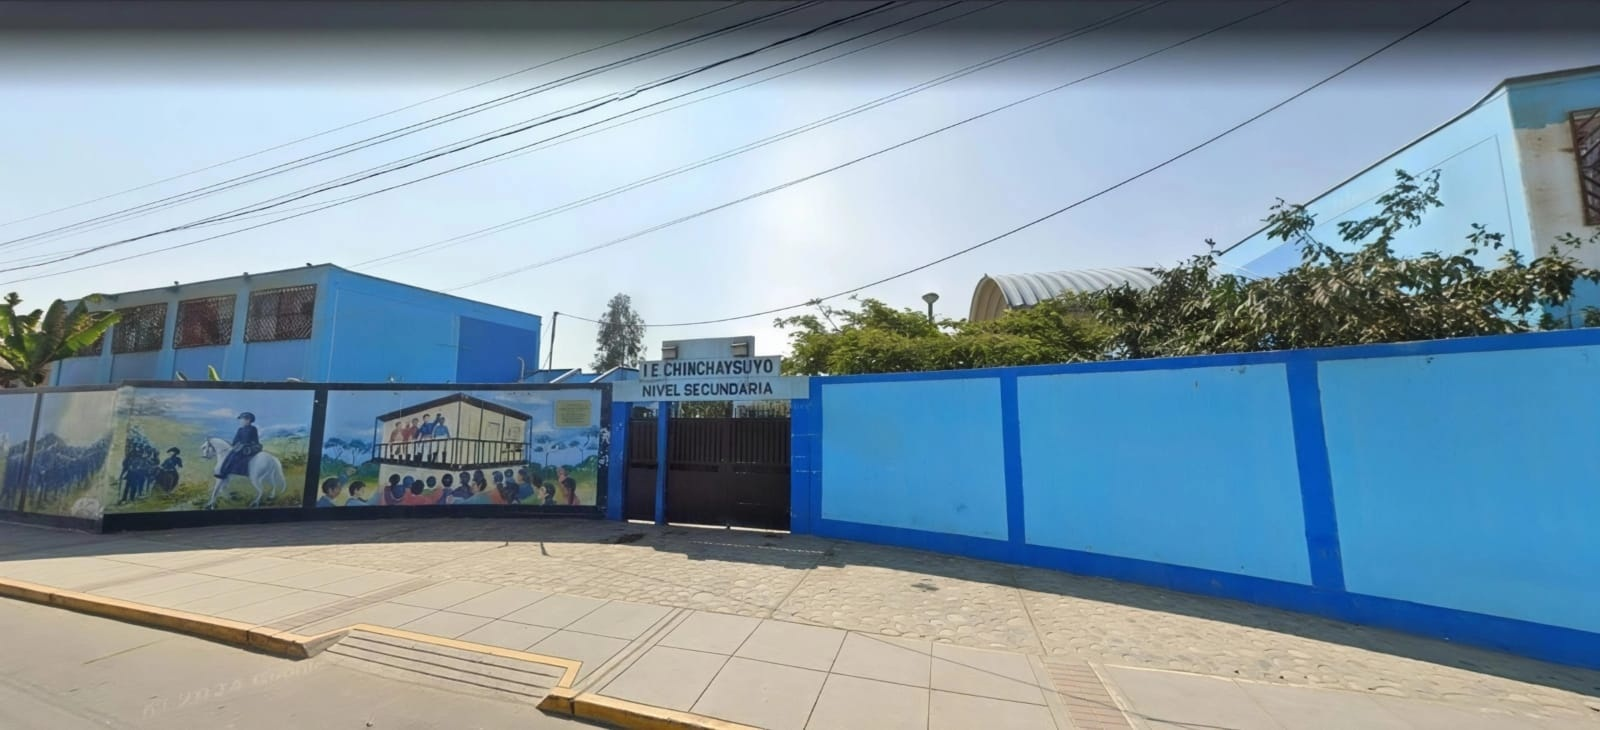
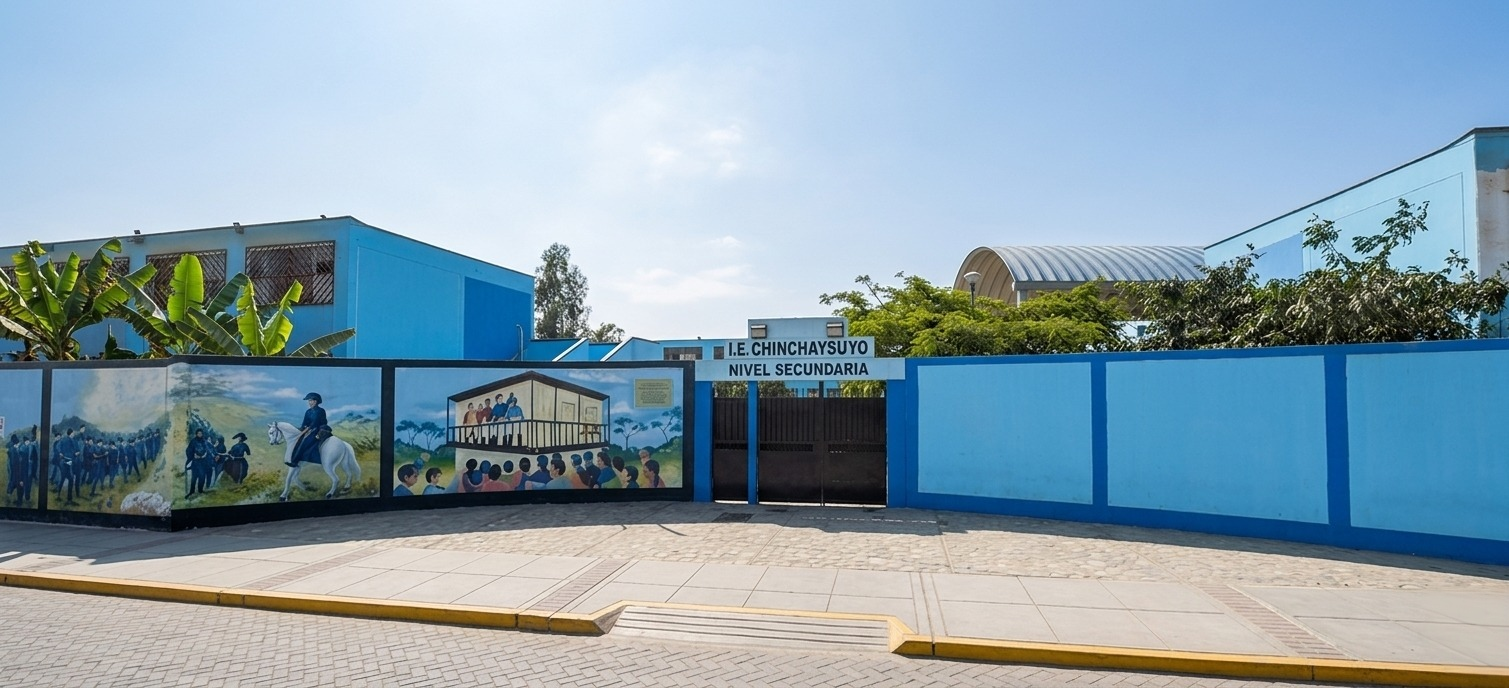
Correcion

diff --git a/app/Views/Auth/login.php b/app/Views/Auth/login.php
@@ -20,7 +20,7 @@
         </div>
 
         <div class="login-title">Sistema de Biblioteca</div>
-        <div class="login-subtitle">Acceso para bibliotecarios</div>
+        <div class="login-subtitle">Acceso para Bibliotecario</div>
 
         <?php if (!empty($error)): ?>
             <div class="alert-error">